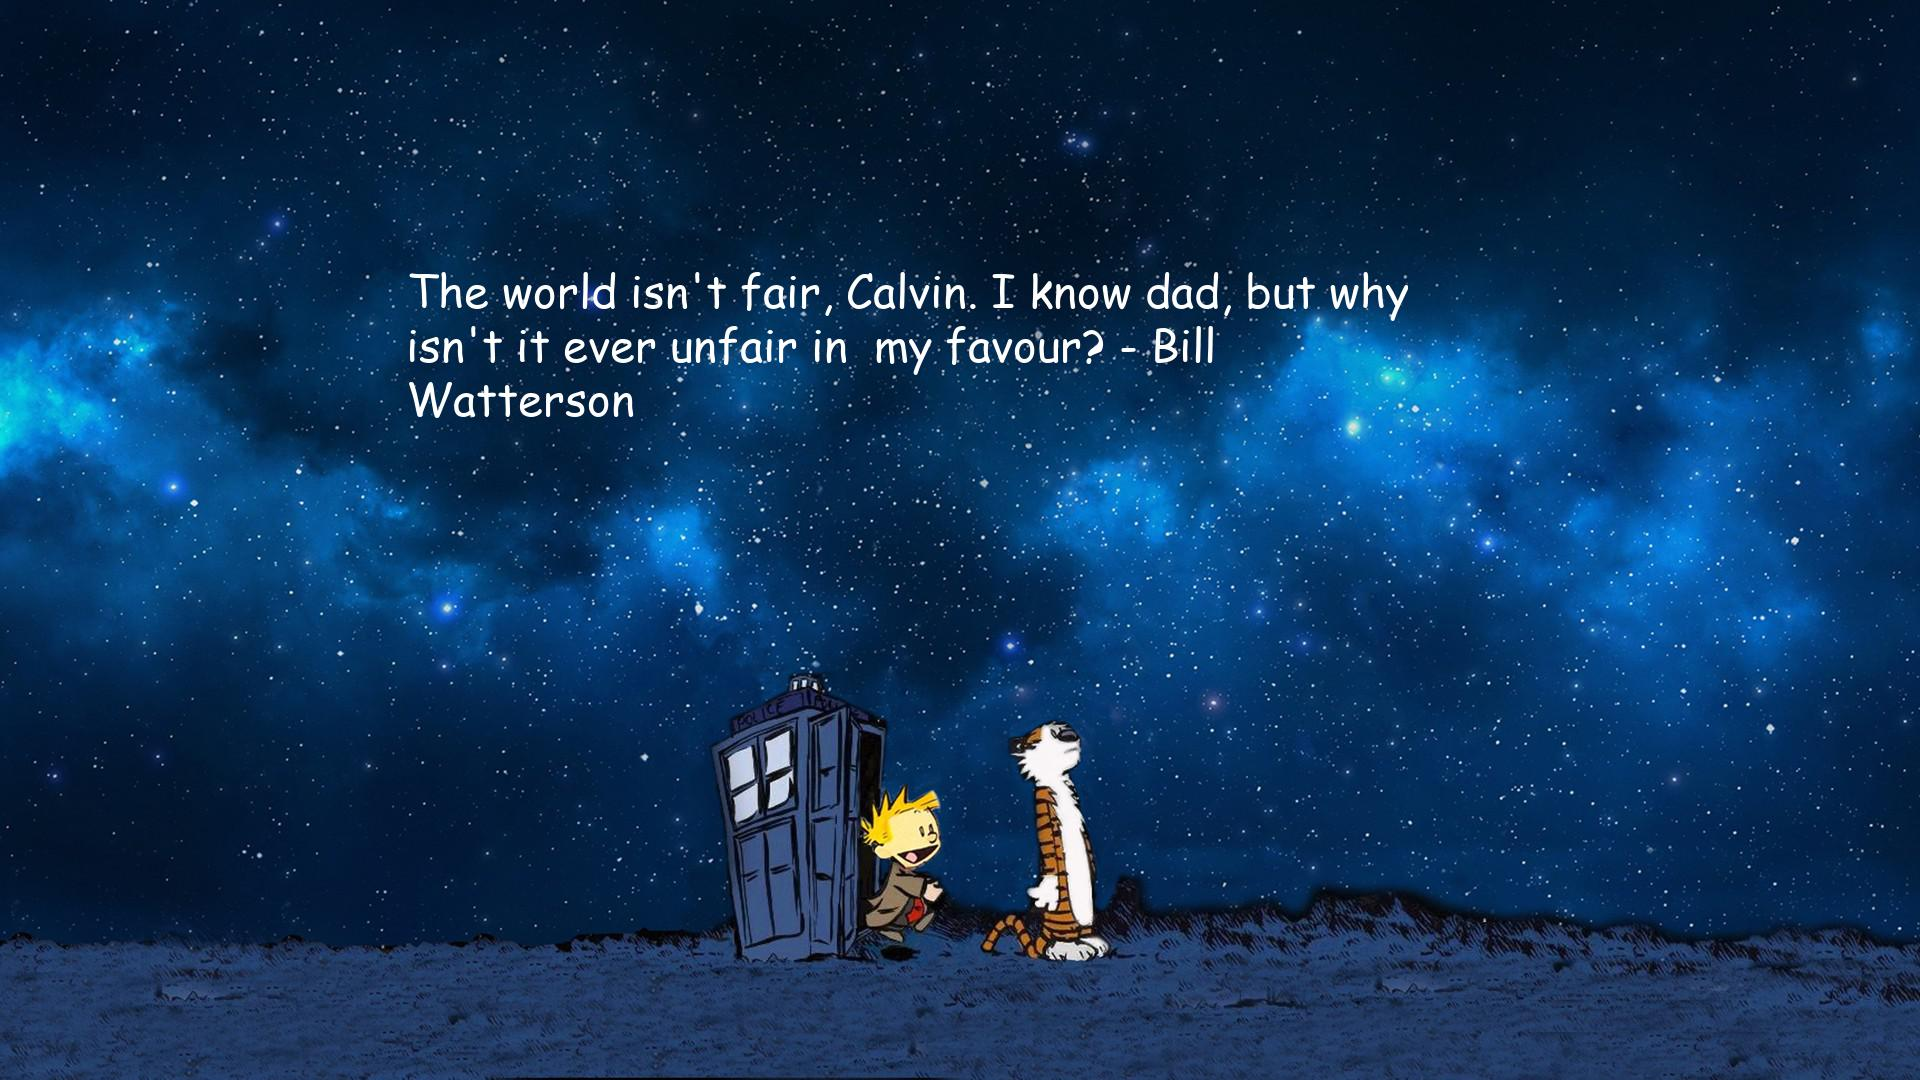
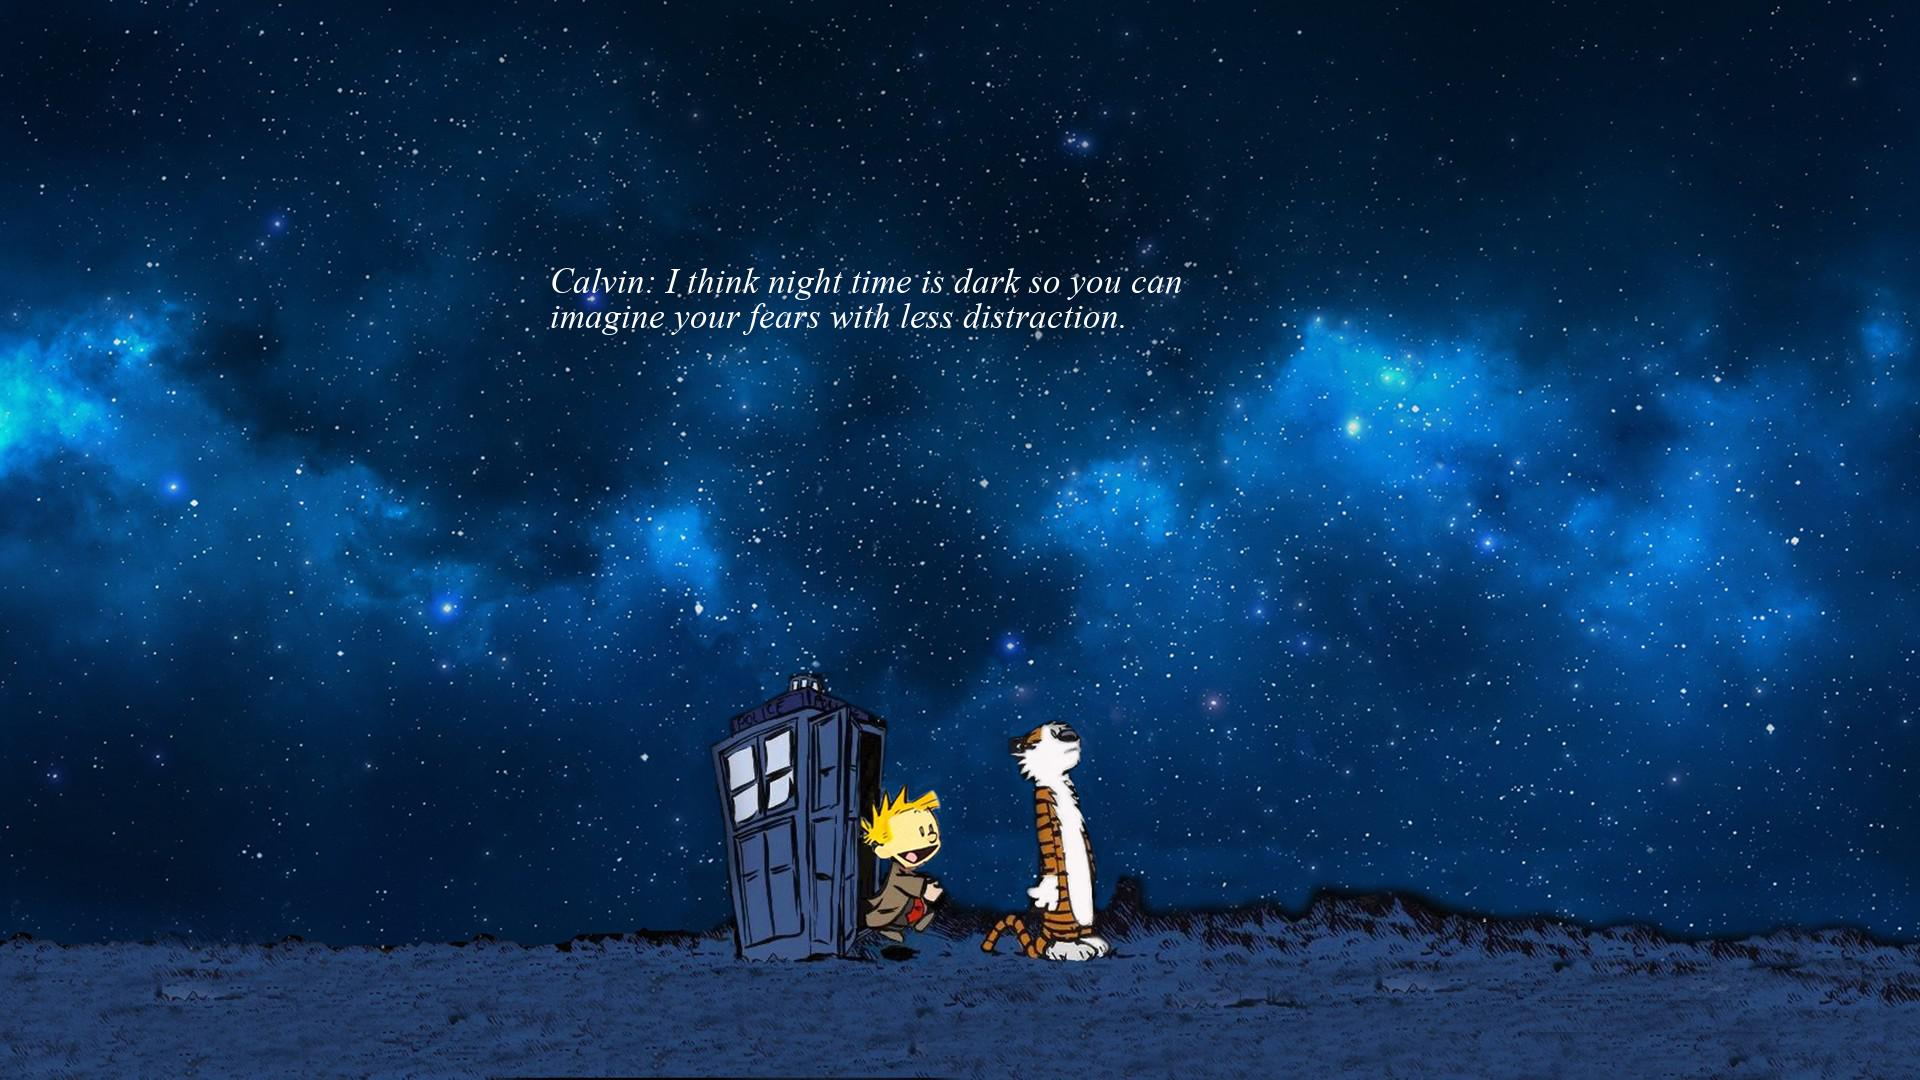
Change font

Changed region(s): [[0.2188, 0.2444, 0.75, 0.3972]]

diff --git a/changeWallpaperMac.py b/changeWallpaperMac.py
@@ -11,11 +11,11 @@ from PIL import ImageDraw
 def change_quote(quoteAddress, imageAddress, newImageAddress):
     img = Image.open(imageAddress)
     W, H = img.size
-    font = ImageFont.truetype("/Library/Fonts/Comic Sans MS.ttf", 45)
+    font = ImageFont.truetype("/Library/Fonts/Times New Roman Italic.ttf", 35)
     draw = ImageDraw.Draw(img)
     msg = textwrap.fill(get_quote(quoteAddress),50)
     w, h = draw.textsize(msg)
-    draw.text(((W-w)/4,(H-h)/4) , msg , (255 , 255 , 255) , font=font)
+    draw.text(((W-w)/3,(H-h)/4) , msg , (255 , 255 , 255) , font=font)
     img.save(newImageAddress)
 
 def change_desktop_wallpaper(imageAddress):
